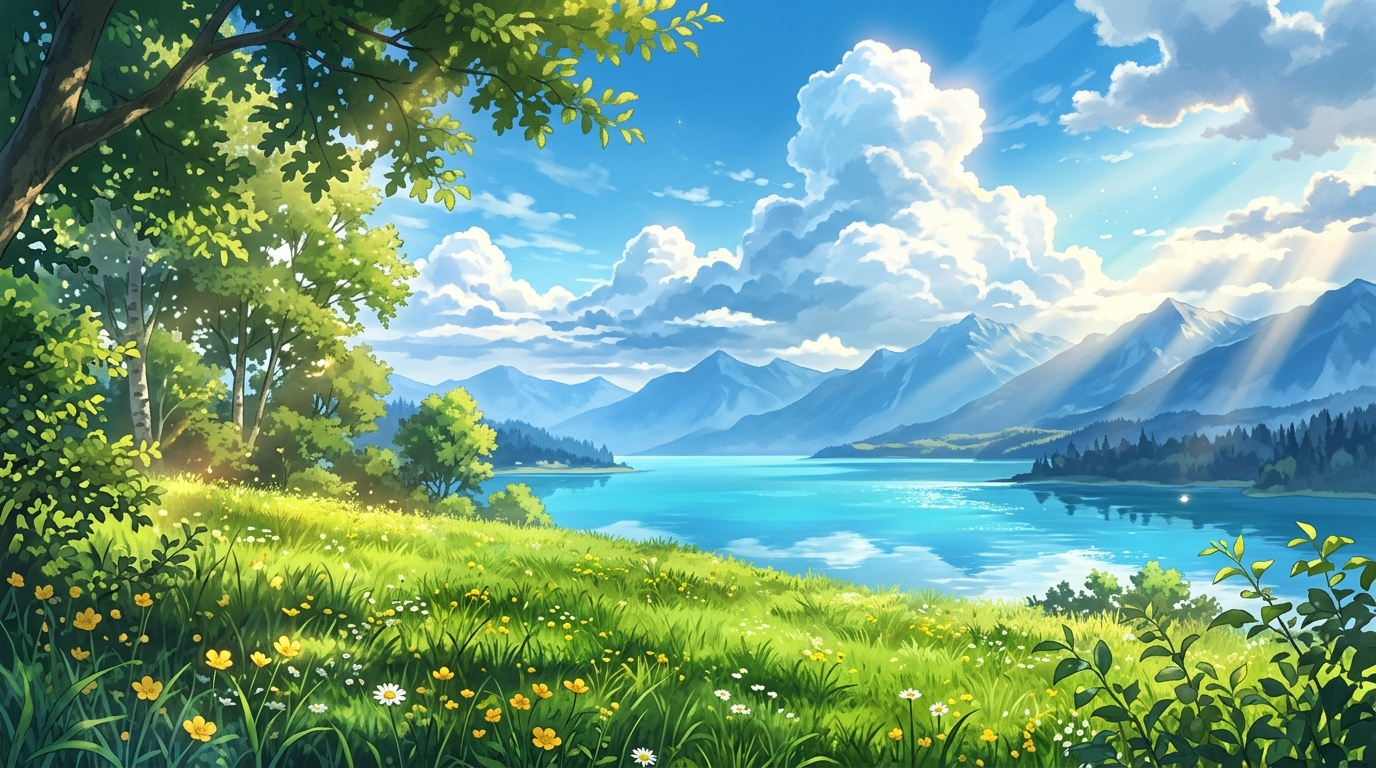
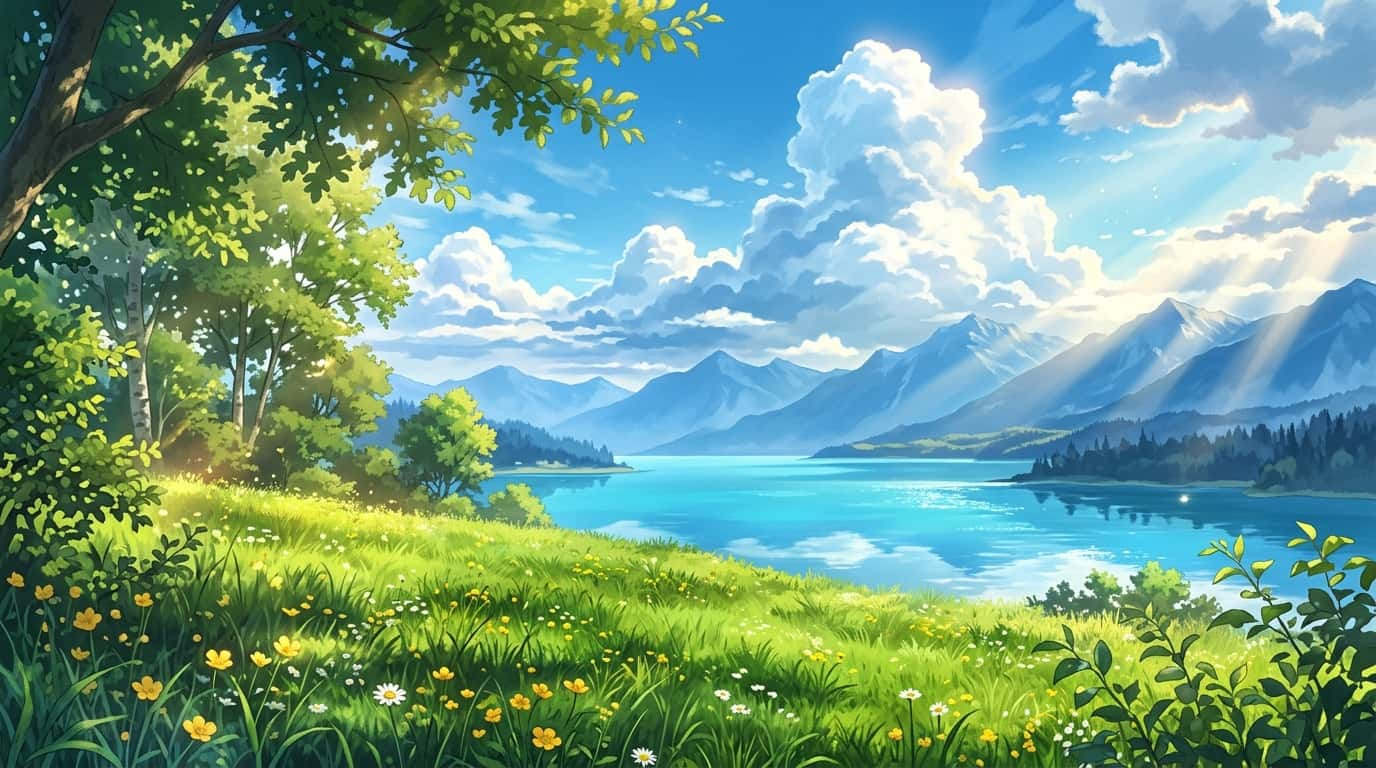
fix(sécurité) : fermer l'optimiseur d'images public de Next 14 (failles non corrigées sur la branche 14)
npm audit : Next 14.2.35 porte des avis critiques/hauts sur l'API d'optimisation d'images
(déni de service, RCE via SVG/AVIF) corrigés uniquement en 15.5.x. /_next/image est public et
fait décoder des images par sharp pour n'importe qui ; l'application ne s'en sert que pour un
fond décoratif flouté. images.unoptimized : le point d'entrée répond 404 (vérifié dans
next-server.js) ; l'image est recompressée une fois (990 Ko → 125 Ko) pour ne rien perdre.

Garde : src/lib/infra/next-config.test.ts. Constat INFRA-04.

Claude-Session: https://claude.ai/code/session_01Da1iKCatANvfQwtoV1NBX2

diff --git a/src/lib/infra/next-config.test.ts b/src/lib/infra/next-config.test.ts
@@ -1,0 +1,14 @@
+import { describe, expect, it } from "vitest";
+
+/**
+ * Garde de configuration : l'optimiseur d'images de Next 14 (`/_next/image`) est un point
+ * d'entrée PUBLIC dont les failles publiées ne sont plus corrigées sur la branche 14 (audit
+ * 27/10, INFRA-04). Il reste fermé tant que Next n'est pas monté de version.
+ */
+describe("next.config.mjs — surface publique", () => {
+  it("l'optimiseur d'images est désactivé (le point d'entrée répond 404)", async () => {
+    const mod = (await import("../../../next.config.mjs")) as { default: (phase: string) => { images?: { unoptimized?: boolean } } };
+    const config = mod.default("phase-production-server");
+    expect(config.images?.unoptimized).toBe(true);
+  });
+});
